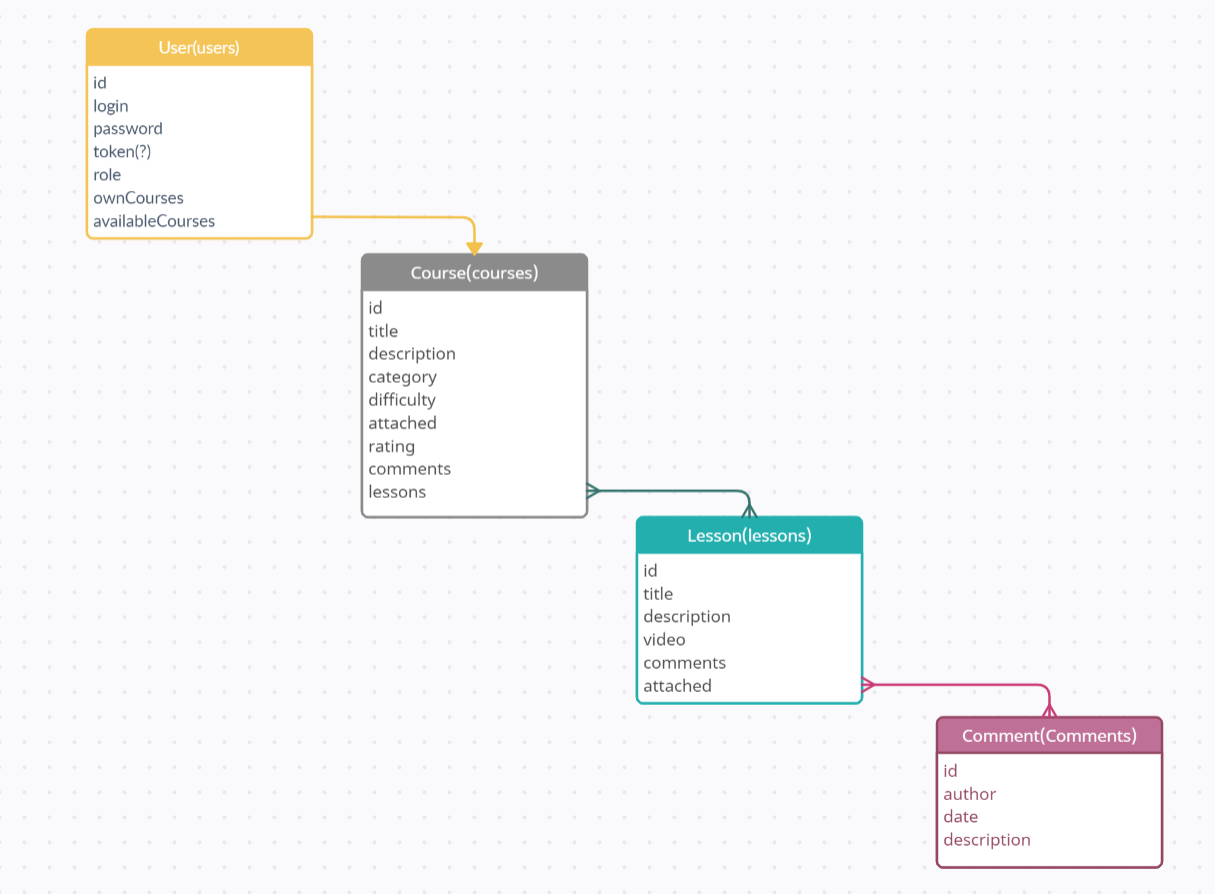
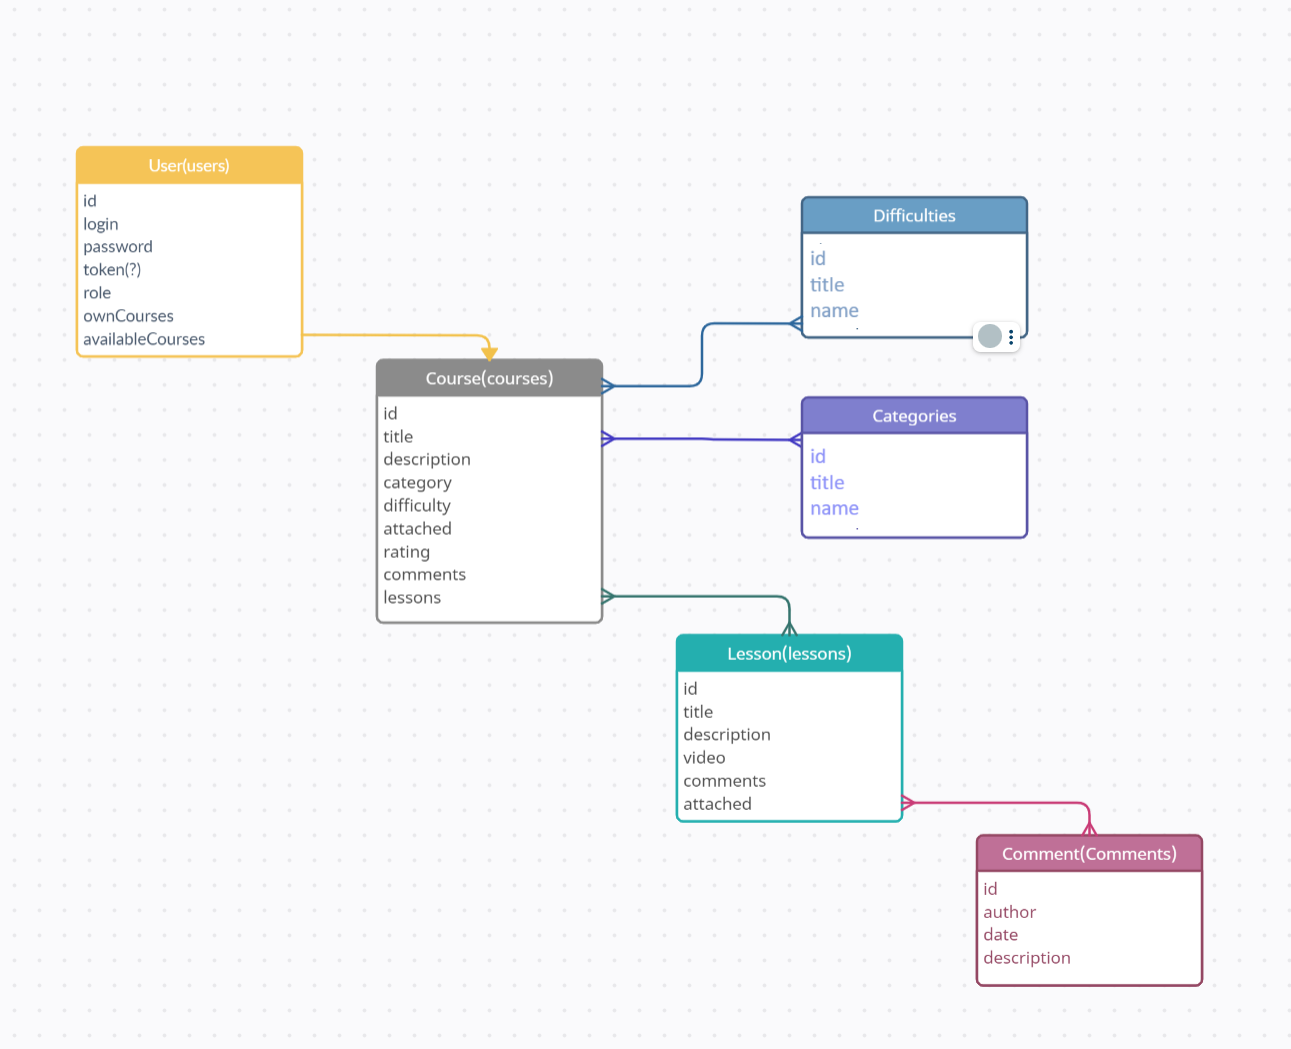
#feat: mongodb

Changed region(s): [[0.0305, 0.0302, 0.9745, 0.9966], [0.5481, 0.1812, 0.8222, 0.3322]]

diff --git a/coursesBackend/README.md b/coursesBackend/README.md
@@ -50,6 +50,16 @@ NodeJs, Fastify, MongoDB
 -date
 -description
 
+5. Categories
+-id
+-title
+-name
+
+6. Difficulties
+-id
+-title
+-name
+
 <!--  -->
 Эндпоинты:
 +++Course:
